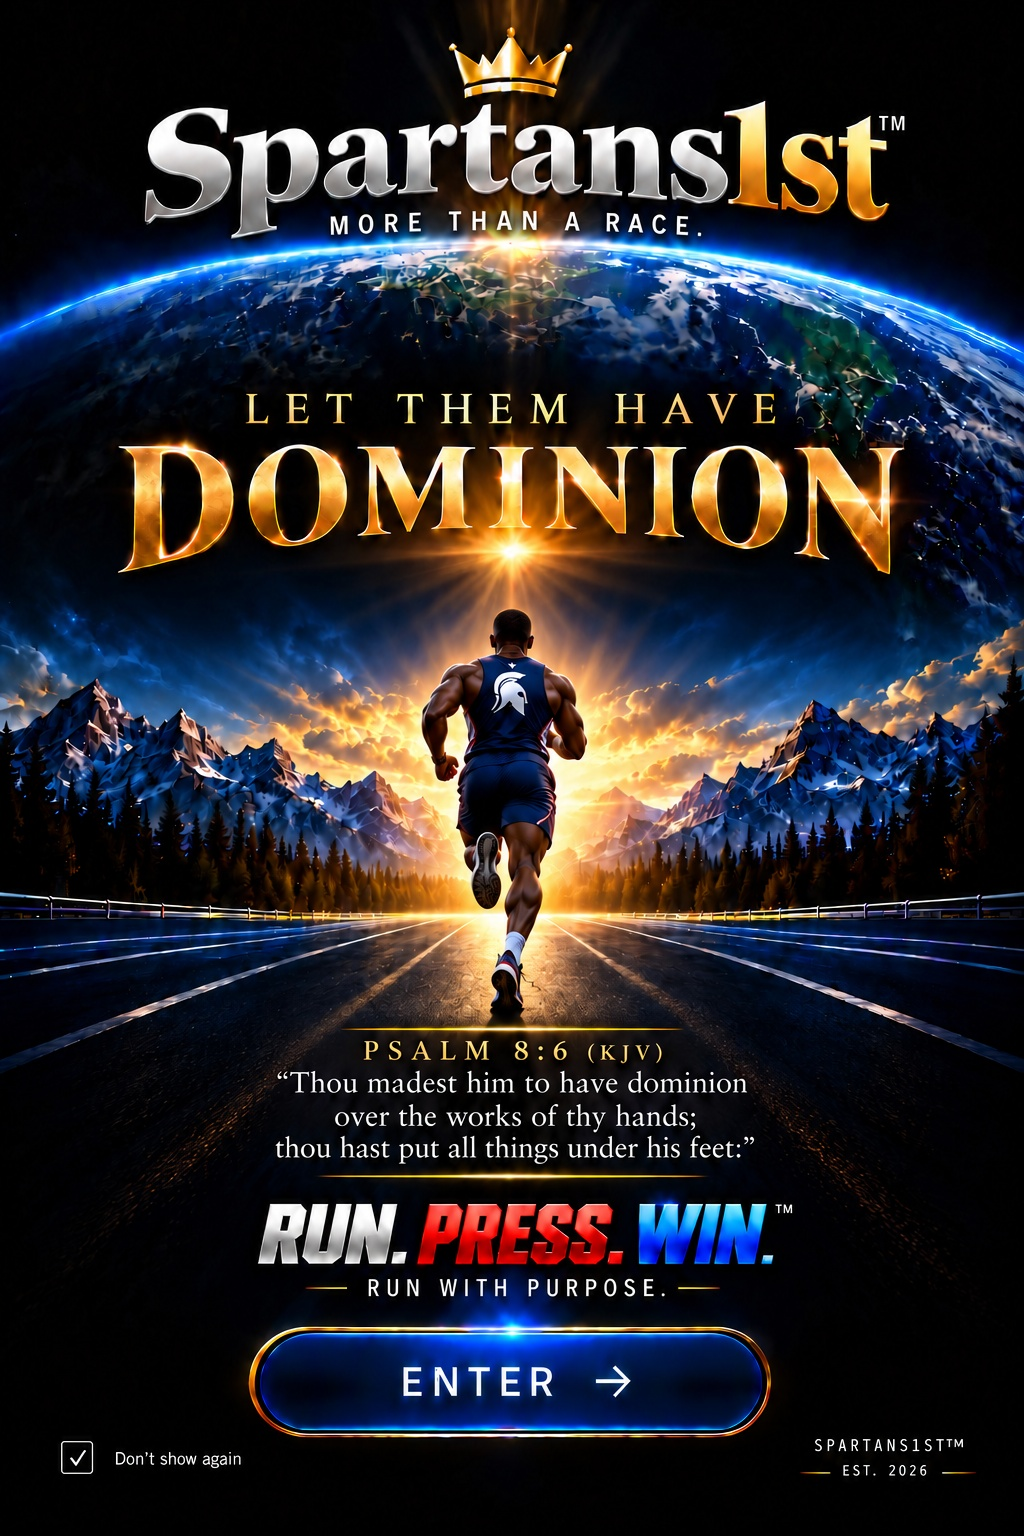
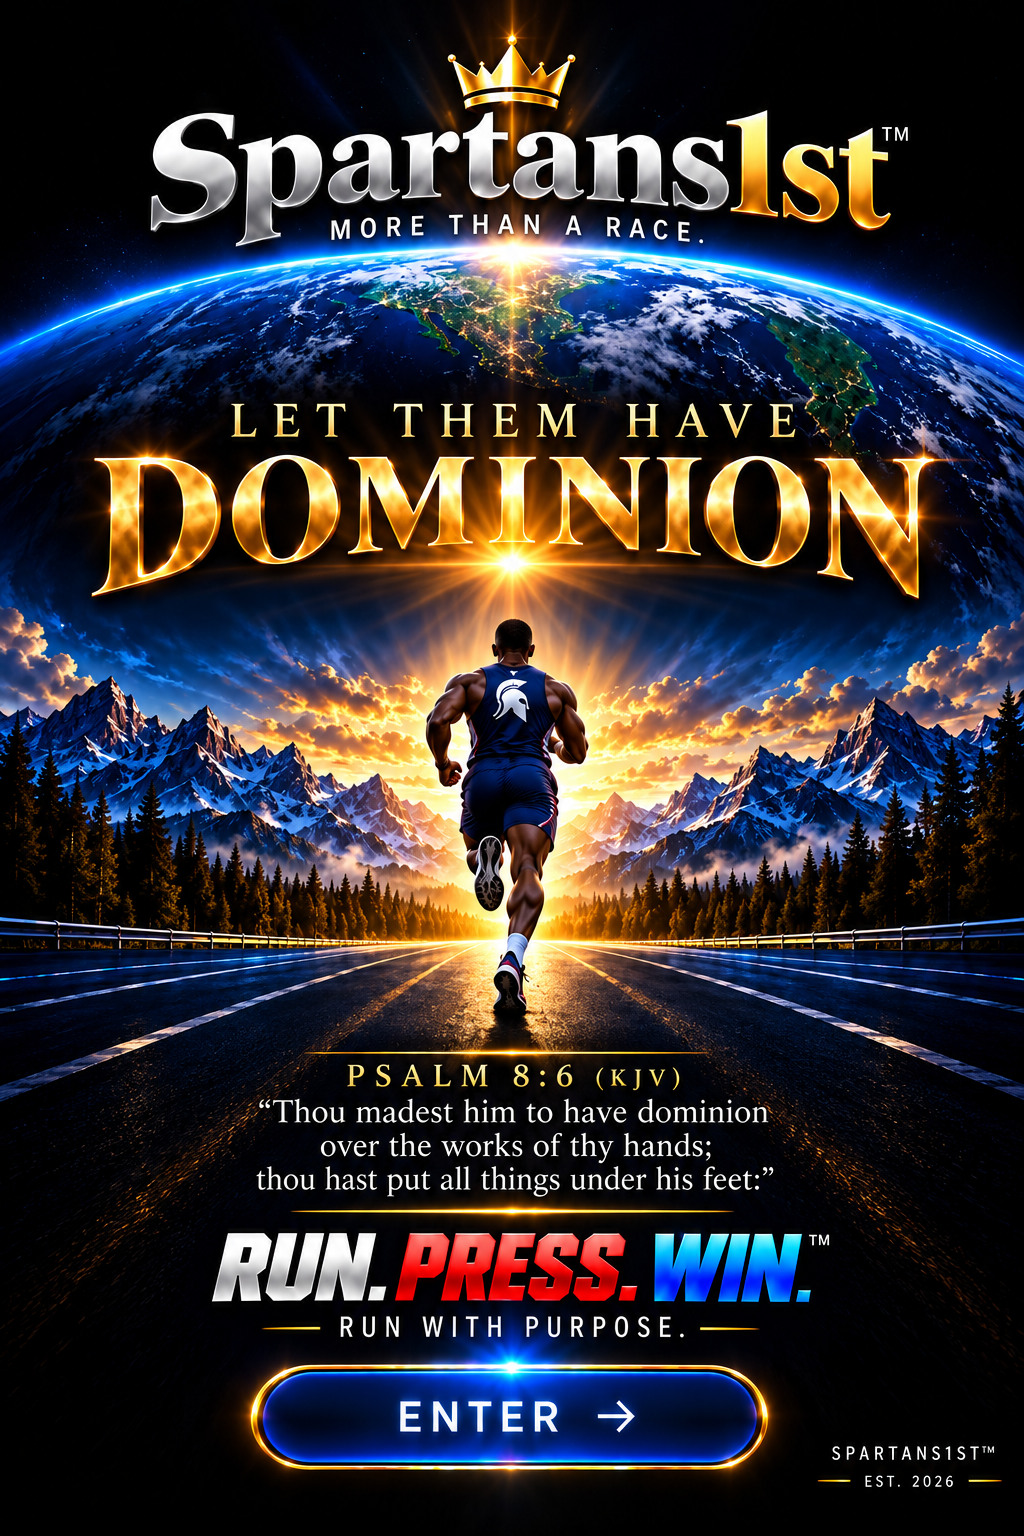
Test site: clean Portal artwork without the baked-in checkbox
Replace championship-entry.jpg (same 1024x1536 size) with the recreated
art, and align the existing ENTER click area to the new button artwork.

Claude-Session: https://claude.ai/code/session_01Dnu6SB2GcpqVRie4y11c9h

diff --git a/prototypes/championship/index.html b/prototypes/championship/index.html
@@ -5,7 +5,7 @@
 :root{--d1:#0C1262;--d2:#075ee8;--d3:#24E8FF;--gold:#f3bf42;--white:#f8fbff}
 *{box-sizing:border-box}body{margin:0;min-height:100svh;color:var(--white);font-family:Inter,Arial,sans-serif;background:radial-gradient(circle at 50% 18%,#1688ff 0,#0b3da6 28%,var(--d1) 67%,#06113d 100%)}
 .entry{min-height:100svh;display:grid;place-items:center;padding:0;background:#000}.entry-art{position:relative;width:min(100vw,700px,calc(100svh * 2 / 3));aspect-ratio:2/3;line-height:0}.entry-art img{display:block;width:100%;height:100%;object-fit:contain}
-.enter{position:absolute;left:19%;top:84%;transform:none;width:62%;height:10%;border:0;border-radius:999px;background:transparent;cursor:pointer}.enter:focus-visible{outline:4px solid var(--gold)}
+.enter{position:absolute;left:24%;top:88%;transform:none;width:52%;height:8.5%;border:0;border-radius:999px;background:transparent;cursor:pointer}.enter:focus-visible{outline:4px solid var(--gold)}
 .enter{animation:enterPulse 3.6s ease-in-out infinite;transform-origin:center}
 @keyframes enterPulse{0%,100%{filter:brightness(1)}50%{filter:brightness(1.28)}}
 @media(prefers-reduced-motion:reduce){.enter{animation:none}}
